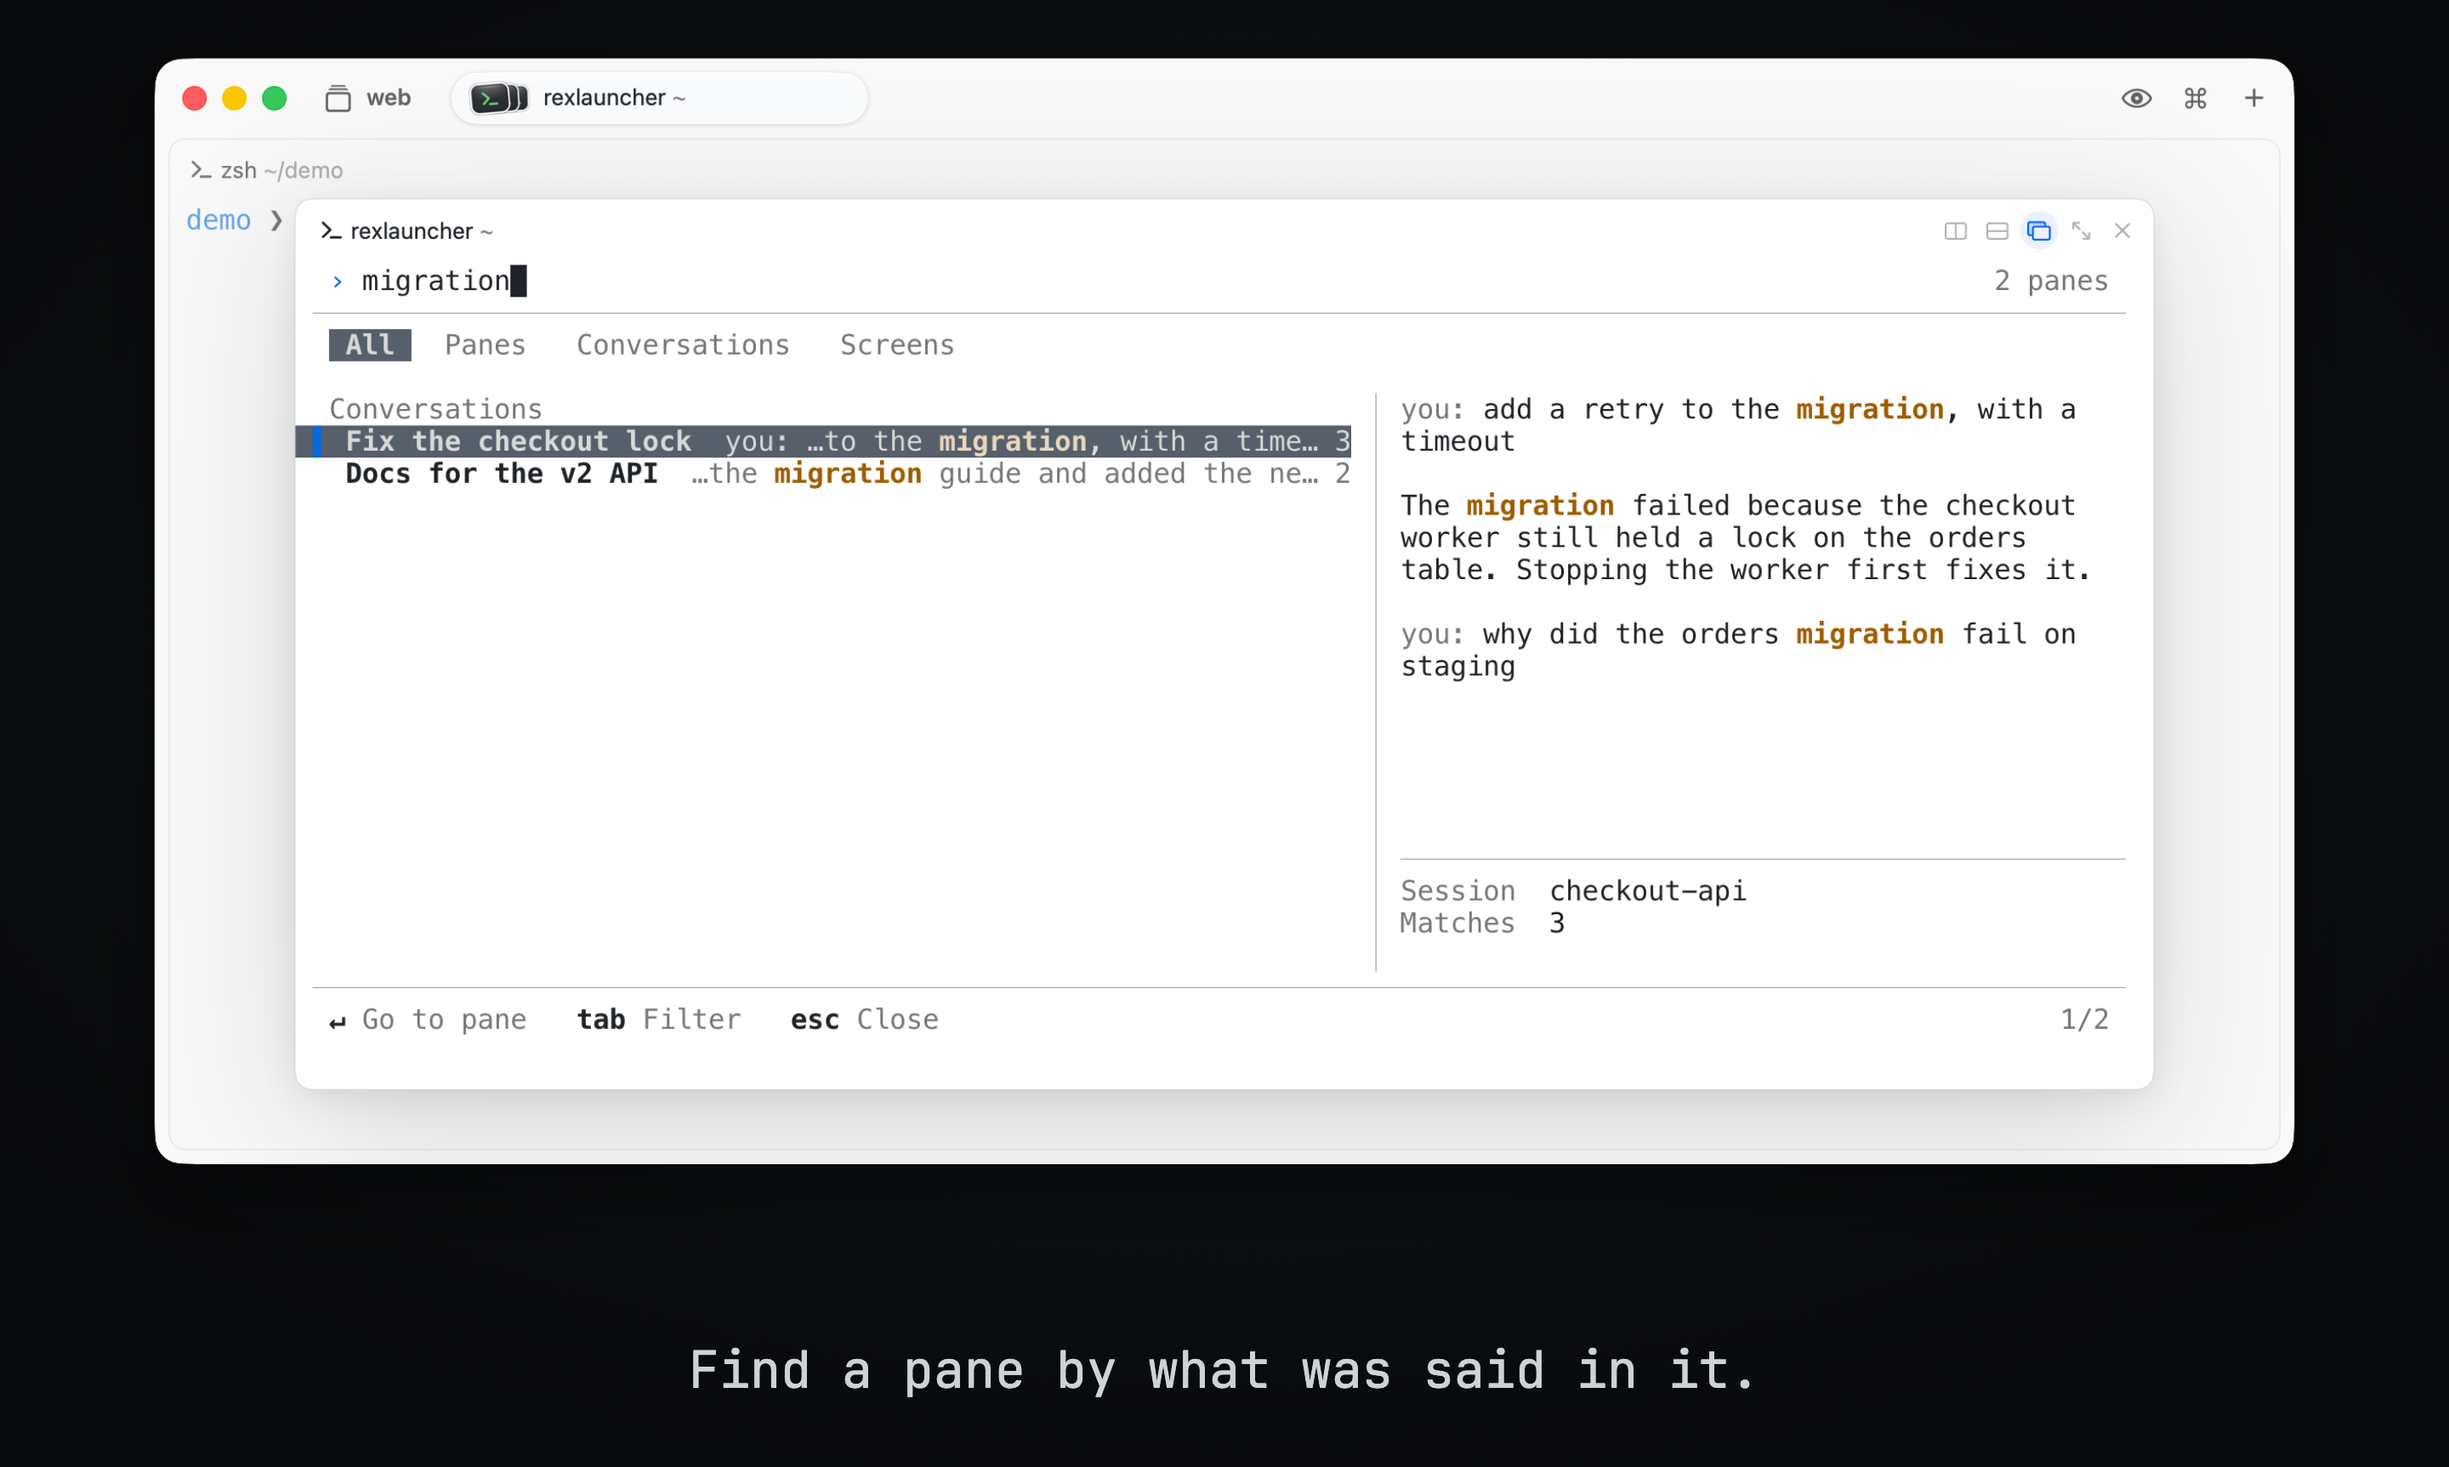
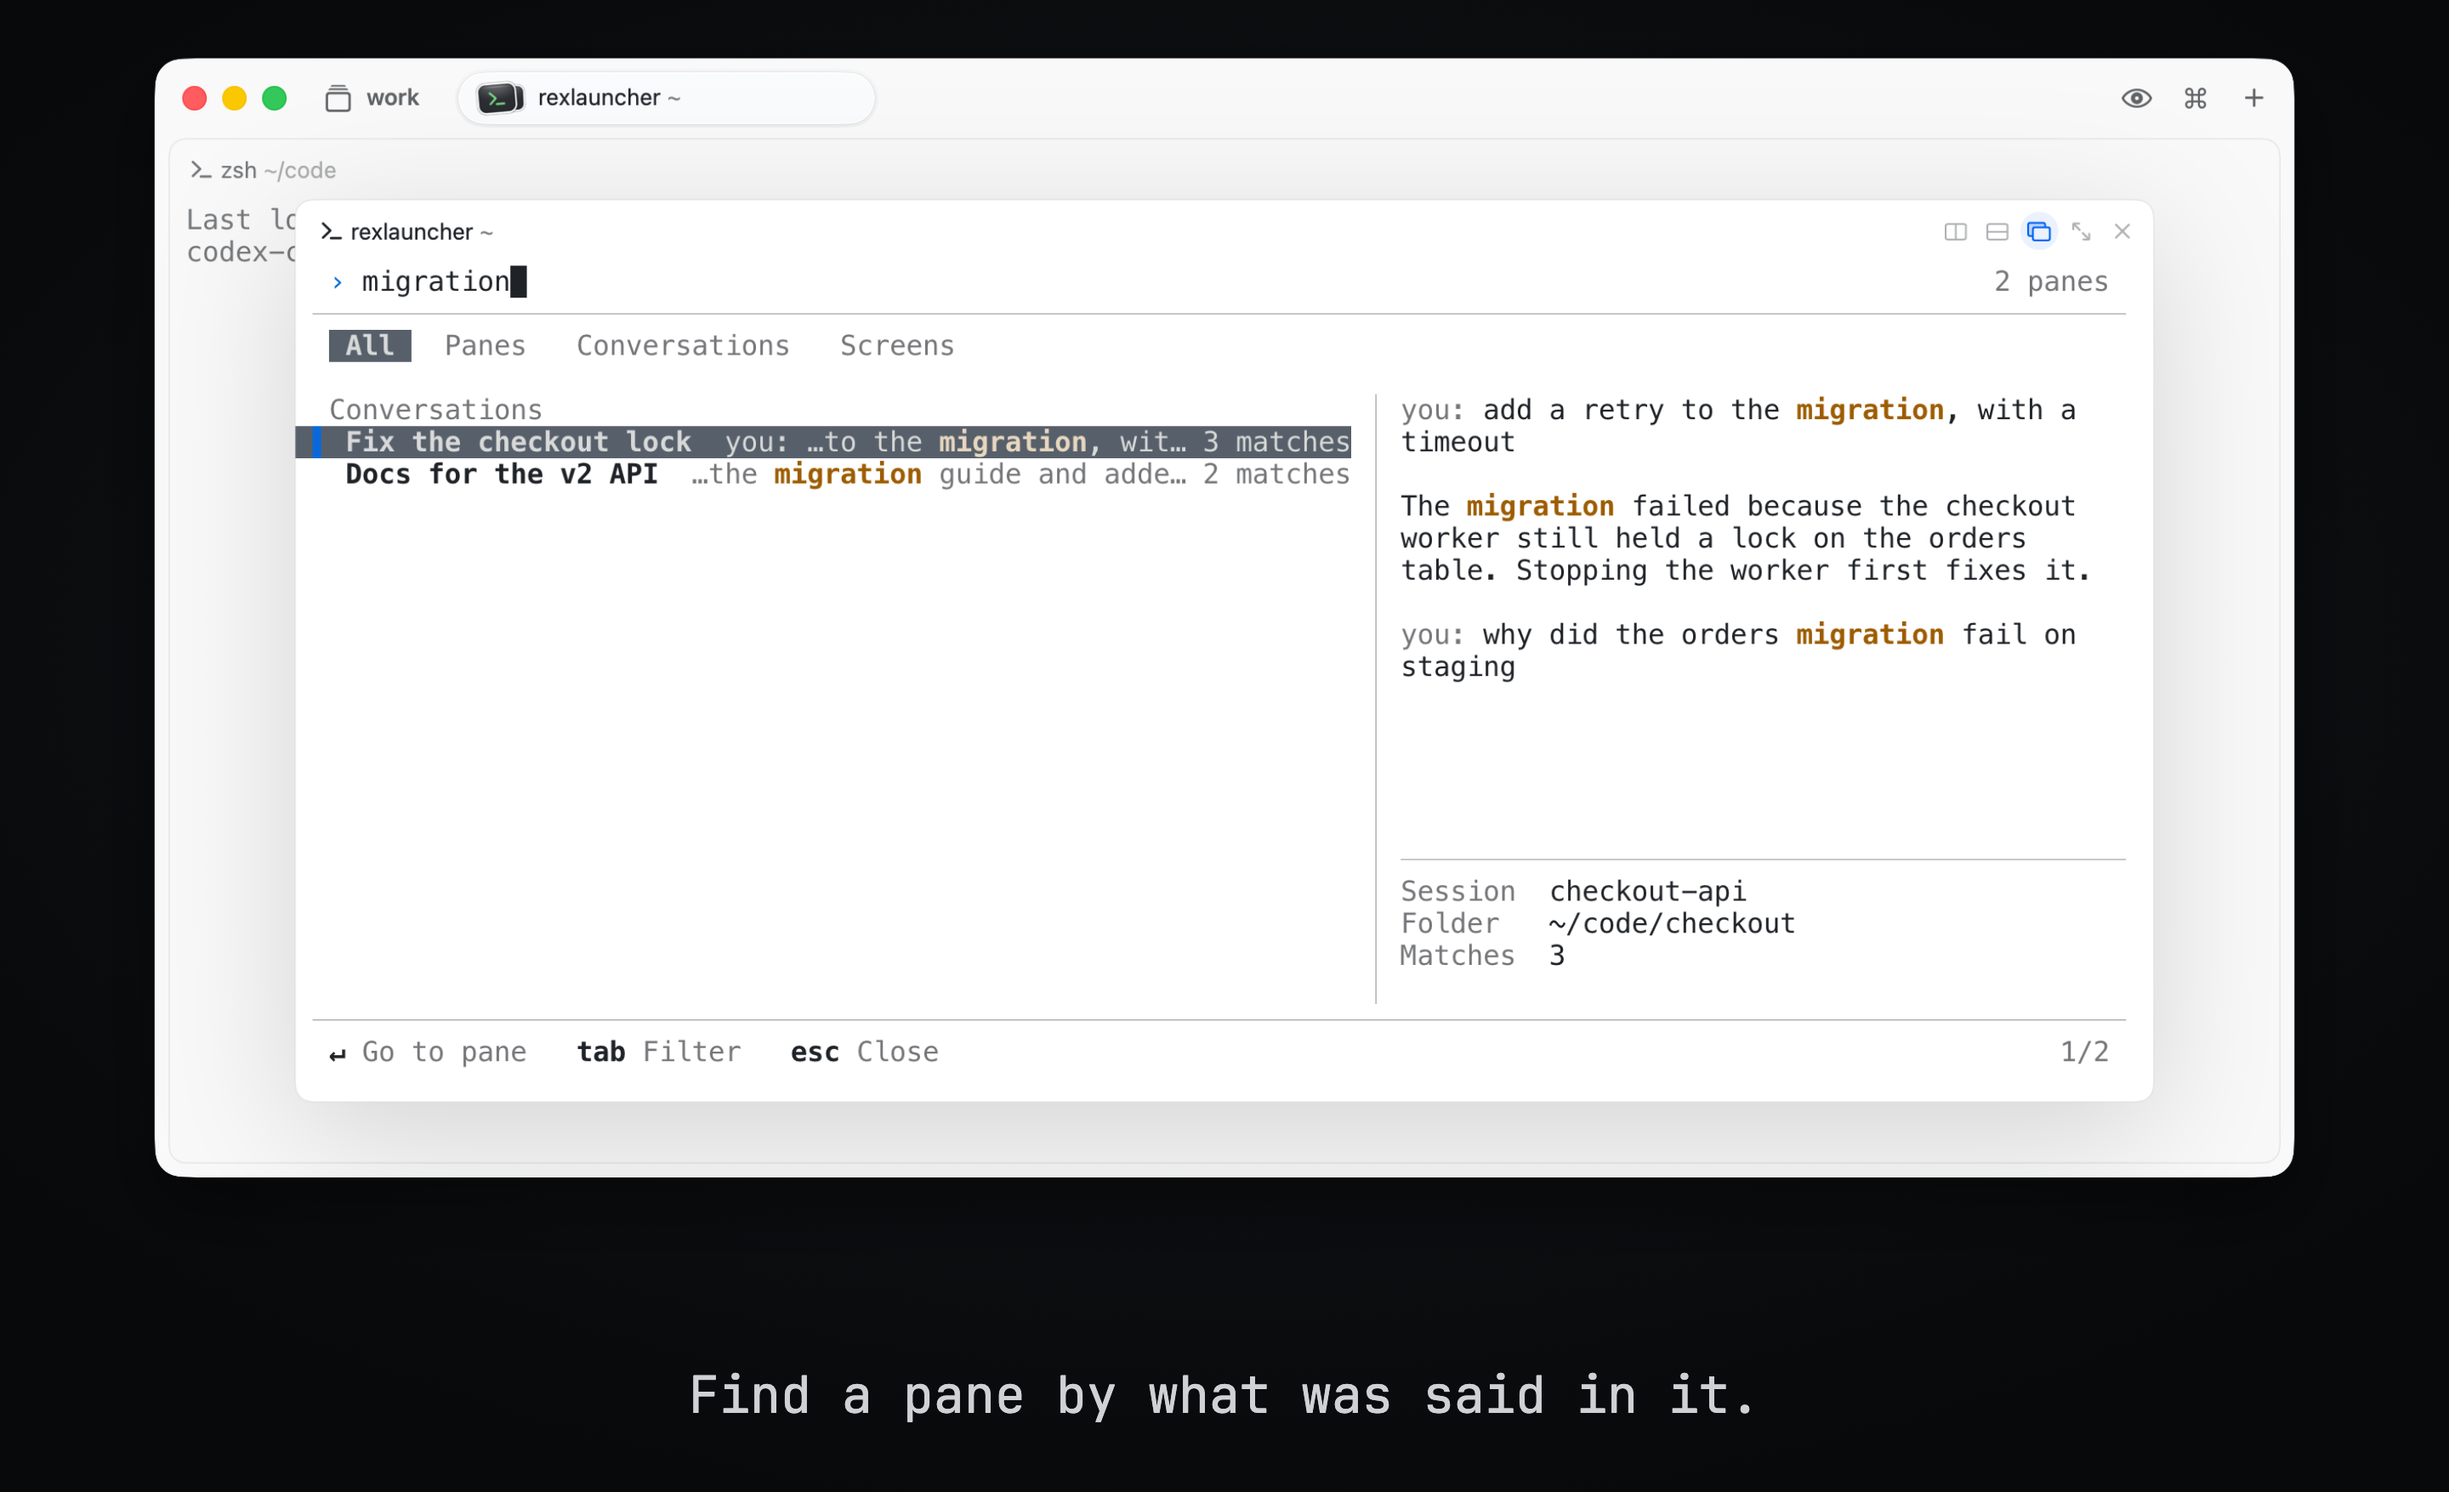
Update the hero image and drop the text copy of the picker
The image is from the current build in a real Rex window, and shows the same thing.

diff --git a/README.md b/README.md
@@ -8,24 +8,7 @@
 
 Rex Launcher is a [rexd](https://github.com/tornikegomareli/rexd) plugin for [Rex](https://www.superlogical.com/rex). It searches every pane on your server, and the words said in the Claude Code conversations inside them, then goes to the pane you choose.
 
-Type part of a name, or a word you remember from a conversation. The picker looks like this in text:
-
-```
- › zebrafish                                                              1 pane
-────────────────────────────────────────────────────────────────────────────────
-  All   Panes   Conversations   Screens
- Conversations                                │ The zebrafish migration failed
-▌ Fix the checkout  The zebrafish migrati…  2 │ because the lock was held.
-                                              │
-                                              │ you: Please explain why the
-                                              │ zebrafish migration failed
-                                              │ ───────────────────────────────
-                                              │ Session  shop
-                                              │ Folder   ~/Development/shop
-                                              │ Matches  2
-────────────────────────────────────────────────────────────────────────────────
- ↵ Go to pane   tab Filter   esc Close                                      1/1
-```
+Type part of a name, or a word you remember from a conversation.
 
 ## Install
 

diff --git a/CHANGELOG.md b/CHANGELOG.md
@@ -8,3 +8,4 @@ The first version.
 - A picker with sections, filters, a preview, a live screen with colors, and the mouse.
 - The first screen lists the conversations that changed last.
 - Keeps a private text index of each conversation, so each open only reads what is new.
+- Press the key again to close the picker.
